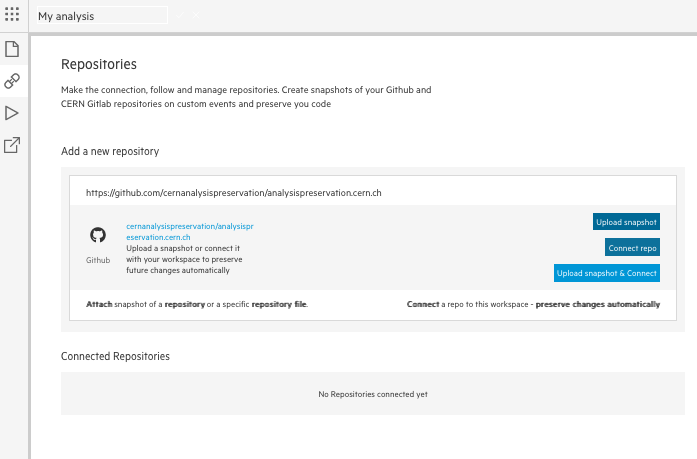
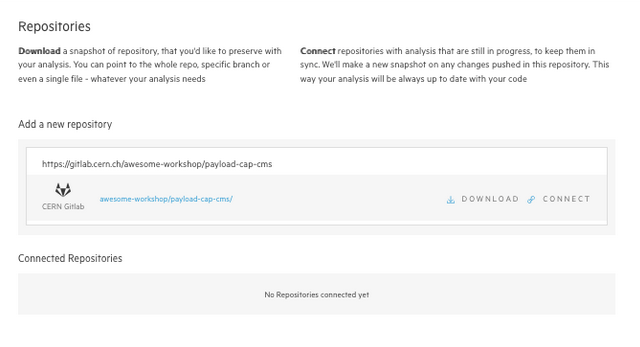
add more screenshots, complete sharing and search episodes

diff --git a/_episodes/05-Connecting-your-repository.md b/_episodes/05-Connecting-your-repository.md
@@ -15,7 +15,7 @@ keypoints:
 ---
 
 
-## Connecting CAP with git repositories
+## Connecting CAP with Git repositories
 
 We have already created a new CAP entry, added some metadata (datasets, triggers information) and uploaded files. Now it's time to tell us, where is the code that you used in your analysis.
 
@@ -35,17 +35,17 @@ In general, if you want to connect a public repository, you don't need to connec
 Now let's go back to your open analysis in the previous tab:
 1. Go to the menu on your left and click on the connection symbol (third icon)
 2. Right now you should see no repositories connected with your analysis
-3. Add our analysispreservation repository link
+3. To change it let's use our repository created specially for you for this workshop!
 ~~~
-https://github.com/cernanalysispreservation/analysispreservation.cern.ch
+https://gitlab.cern.ch/awesome-workshop/payload-cap-cms
 ~~~
 ![](../fig/repositories.png)
-4. You can see 3 options
-    * upload a snapshot (it's like downloading a file - it will make a snapshot of a repo at this moment and no future changes will be reflected in your analysis)
-    * connect repository (make connection between your repository and this analysis - get notified every time somebody pushed changes to this repo)
-    * upload snapshot & connect (combines both, download now and everytime something was pushed to this repository)
-Let's test option 3
+4. We have two options:
+    * download - like downloading a file - it will make a snapshot of a repo at this moment and attach it to your analysis files (you will find it with other files in your `File Manager`)
+    * connect - create a link between your repository and analysis. This way you can keep your analysis up to date with your code changes - we will make a snapshot of each new version of your code and attach it to your analysis for you.
 
-FIXME
+    First option is useful for repositories, that you use, but not maintain, or when your analysis code is already in its final state. For analysis that are still in progress we recommend a second option.
+
+FIXME download repo and download file, pics
 
 {: .language-yaml}

diff --git a/_episodes/06-Sharing-your-analysis.md b/_episodes/06-Sharing-your-analysis.md
@@ -34,15 +34,25 @@ repositories, or even delete it, and start from scratch. But once your analysis 
 
 During this course we're working on the dev instance, so we can publish our test analysis, but think twice before doing this in production server;)
 
-Let's try to give a read access to your CAP analysis to one of your colleagues
+Let's try to give a read access to your CAP analysis to all the cms-members
 
 1. Go to the menu on your left and click on the share symbol (last icon)
-2. Type your colleague mail and click `+` button
-3. Now he has a read access to your analysis!
-4. Revoke access by pressing on `read` access switch
+2. You can see yourself marked as on owner of this analysis, with all the access (makes sense)
+2. Pick `Egroup email` and type cms egroup mail
+~~~
+cms-members@cern.ch
+~~~
+3. Click `+` button
+3. Now all the cms-members have read access to your analysis! (You can check in your dashboard if you can see some new drafts from your colleagues)
+4. Revoke access by pressing on `read` switch next to the egroup name
+
+![](../fig/access2.png)
 
 Let's publish your analysis
 1. From the same `share with others` tab click `Publish` button
+
+![](../fig/publish.png)
+
 2. Confirm and congrats, your work has been published!
 4. Go to the home page and see if you can find it in `published in collaboration` list
 4. See if you can see your colleagues published work too

diff --git a/_episodes/03-Adding-a-dataset.md b/_episodes/03-Adding-a-dataset.md
@@ -45,6 +45,8 @@ First, from the navigation menu on the left side, pick `Input Data` section. You
 HLT
 ~~~
 
+![](../fig/addtriggers.png)
+
 2. Pick `Monte Carlo Signal Datasets` to include some dataset simulation on the signal model your are using in your analysis. Start typing to check quick search/autocompletion features.
 
 3. Pick `Monte Carlo Background Datasts` to include some dataset simulation on the background you are using in your analysis. Start typing to check quick search/autocompletion features.
@@ -54,6 +56,10 @@ HLT
 
 In case you already have a full list of used datasets, you can simply copy-paste them in the form. Just click on `import from clipobard`, that can be found on header of each datasets section.
 
+![](../fig/importdatasets.png)
+
 ## Exporting the datasets as a Latex file
 
 Now that you have your dataset paths stored, you may need to export them to include them in a paper or just to share it with some collaborators. For doing so, the CAP system has a Latex exporter that will generate an exportable LaTeX dataset table. Simply click on `export to Latex` that can be found on header of each datasets section.
+
+FIXME add pic

diff --git a/_episodes/02-Creating-new-CAP-entry.md b/_episodes/02-Creating-new-CAP-entry.md
@@ -26,7 +26,11 @@ The first page you can see is your dashboard. It gives you a quick overlook on t
 
 Switch from `MINE` to `ALL` tab in `PUBLISHED IN COLLABORATION` view. You can click on analysis to find out more details.
 
+![](../fig/publishedview.png)
+
 Another section of the dashboard is a `QUICK SEARCH`. It's a word map with some of the most common search phrases, that will take you to your search results with just one click. For example, if you click on `EXO` you will see the list with all the CAP entries in the EXOTICA group, that have been already preserved. Try!
+
+![](../fig/quicksearch.png)
 
 ## Start preserving
 

diff --git a/_episodes/07-How-to-search.md b/_episodes/07-How-to-search.md
@@ -38,6 +38,8 @@ Now let's try to search some published analysis:
 ~~~
 2. Use filters on the left side to filter by your working group (try few of them and see how results are changing)
 
+![](../fig/searchpage.png)
+
 3. Now try to search for an analysis with a specific CADI ID. Type in a searchbar
 ~~~
     BTV-13-001
